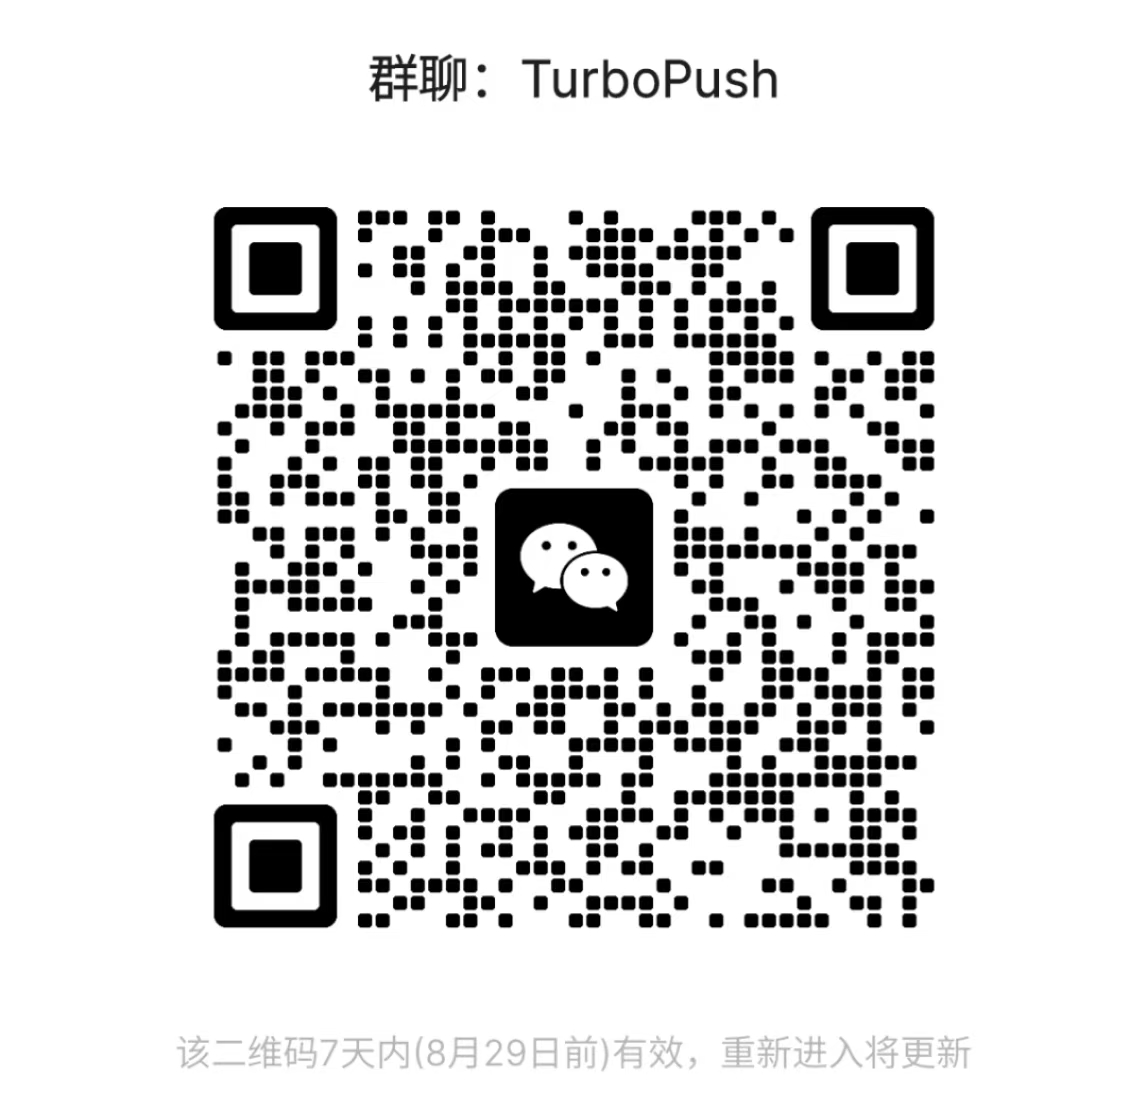
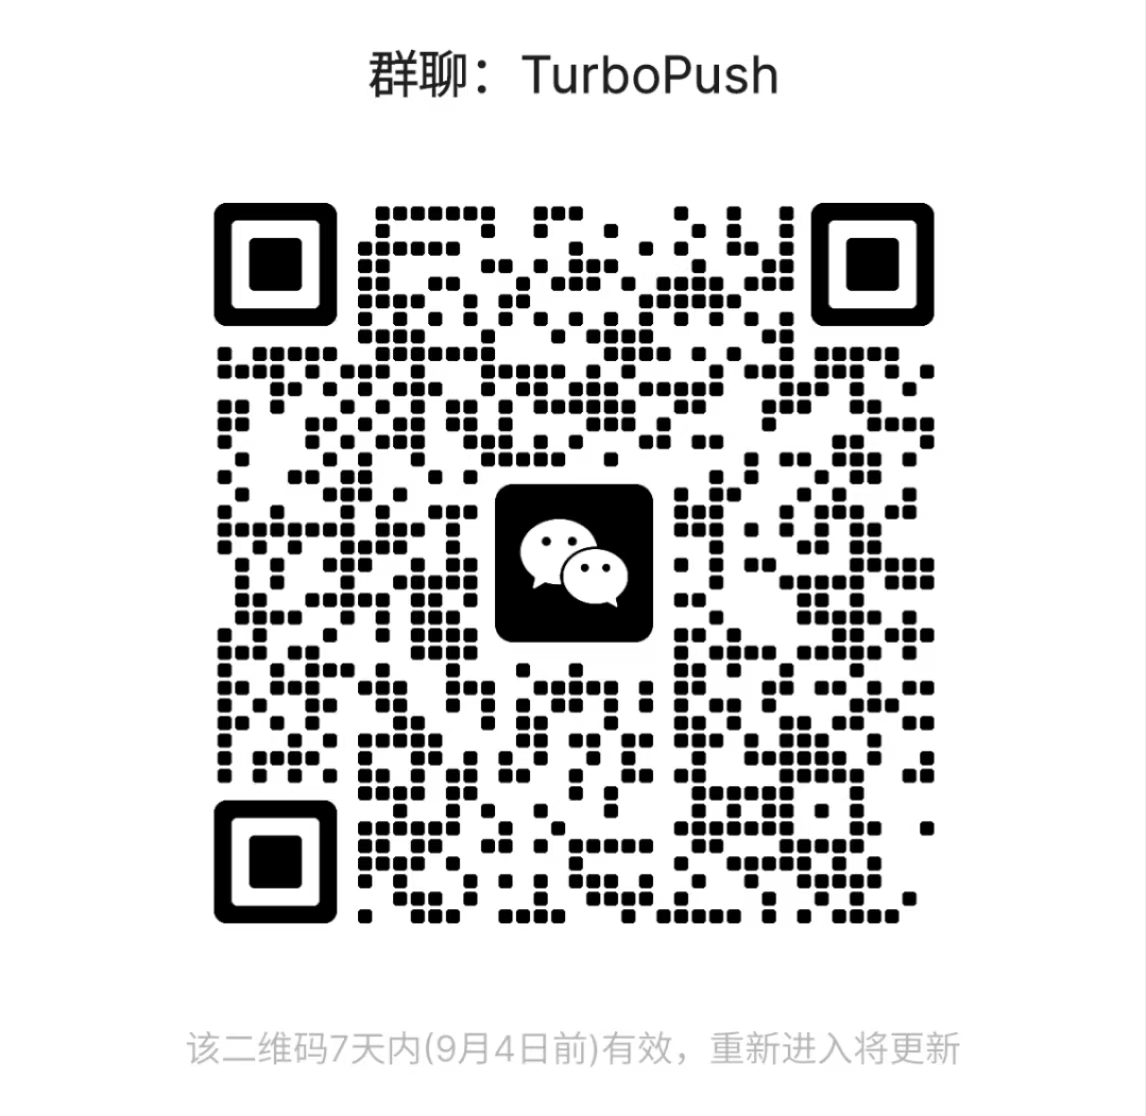
添加手册链接，更新WX群图片

diff --git a/src/components/layout/footer.tsx b/src/components/layout/footer.tsx
@@ -40,9 +40,21 @@ function Footer({ variant = 'default', className }: FooterProps) {
                 TurboPush
               </Typography>
             </div>
-            <Typography variant="muted" className="text-center sm:text-right">
-              © {currentYear} TurboPush. 保留所有权利。
-            </Typography>
+            <div className="text-center sm:text-right">
+              <Typography variant="muted">
+                © {currentYear} TurboPush. 保留所有权利。
+              </Typography>
+              <Typography variant="muted" className="text-xs mt-1">
+                <Link
+                  href="https://beian.miit.gov.cn/"
+                  target="_blank"
+                  rel="noopener noreferrer"
+                  className="hover:text-foreground transition-colors"
+                >
+                  京ICP备XXXXXXXX号
+                </Link>
+              </Typography>
+            </div>
           </div>
         </Container>
       </footer>
@@ -94,6 +106,17 @@ function Footer({ variant = 'default', className }: FooterProps) {
             <div className="pt-6 border-t border-border/50 w-full">
               <Typography variant="muted" className="text-sm">
                 © {currentYear} TurboPush. 保留所有权利。
+              </Typography>
+              <Typography variant="muted" className="text-xs mt-2">
+                ICP备案号：
+                <Link
+                  href="https://beian.miit.gov.cn/"
+                  target="_blank"
+                  rel="noopener noreferrer"
+                  className="hover:text-foreground transition-colors"
+                >
+                  蜀ICP备2025159691号
+                </Link>
               </Typography>
             </div>
           </div>

diff --git a/src/components/layout/header.tsx b/src/components/layout/header.tsx
@@ -25,6 +25,11 @@ const navigationItems: NavigationItem[] = [
   { label: '下载', href: '#download' },
   { label: '关于', href: '#about' },
   { label: '联系', href: '#contact' },
+  {
+    label: '手册',
+    href: 'https://fcn02uha9bv6.feishu.cn/wiki/C3YDwRja9iEzw5kW5vicfkebnoe?from=from_copylink',
+    external: true,
+  },
 ];
 
 function Header({
